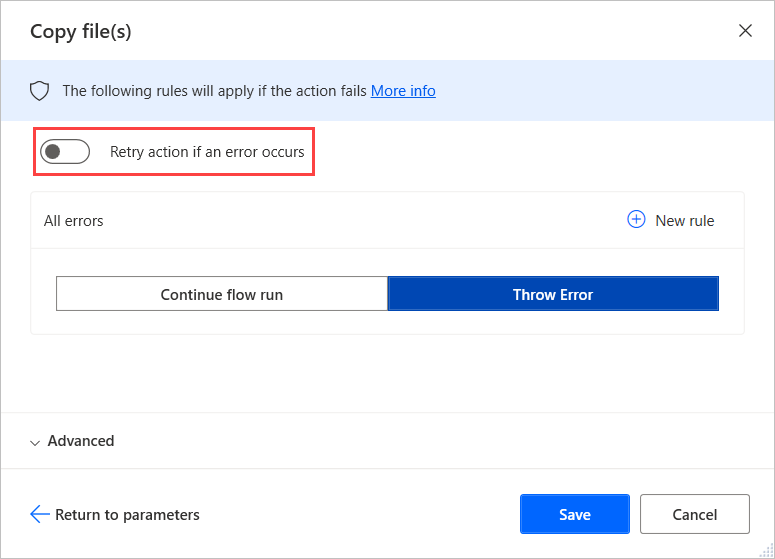
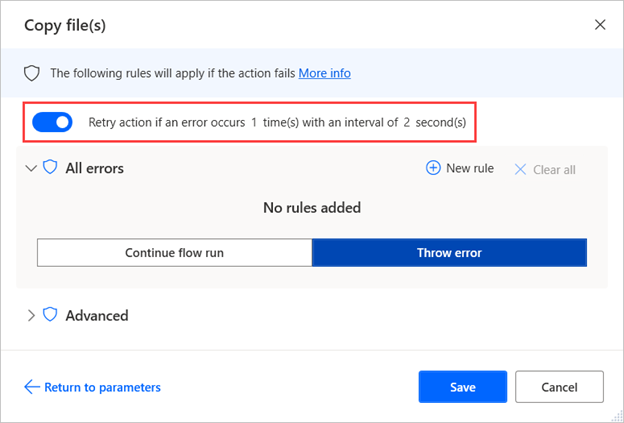
Updated content in Configure actions and the actions pane

diff --git a/articles/desktop-flows/actions-pane.md b/articles/desktop-flows/actions-pane.md
@@ -69,7 +69,7 @@ When an action throws an exception, the flow stops its execution by default. To 
 
 ![The on On error option in the action.](media/configuring-actions-exceptions/on-error-option-action.png)
 
-The dialog box first option is the **Retry action if an error occurs** checkbox, which makes the flow execute the action one more time after two seconds.
+The first option in the dialog box is the **Retry action if an error occurs** checkbox. This checkbox makes the flow execute the action a set number of times after a set number of seconds. The default value is one retrying with an interval of two seconds.
 
 ![The Retry action checkbox in the action.](media/configuring-actions-exceptions/retry-action.png)
 
